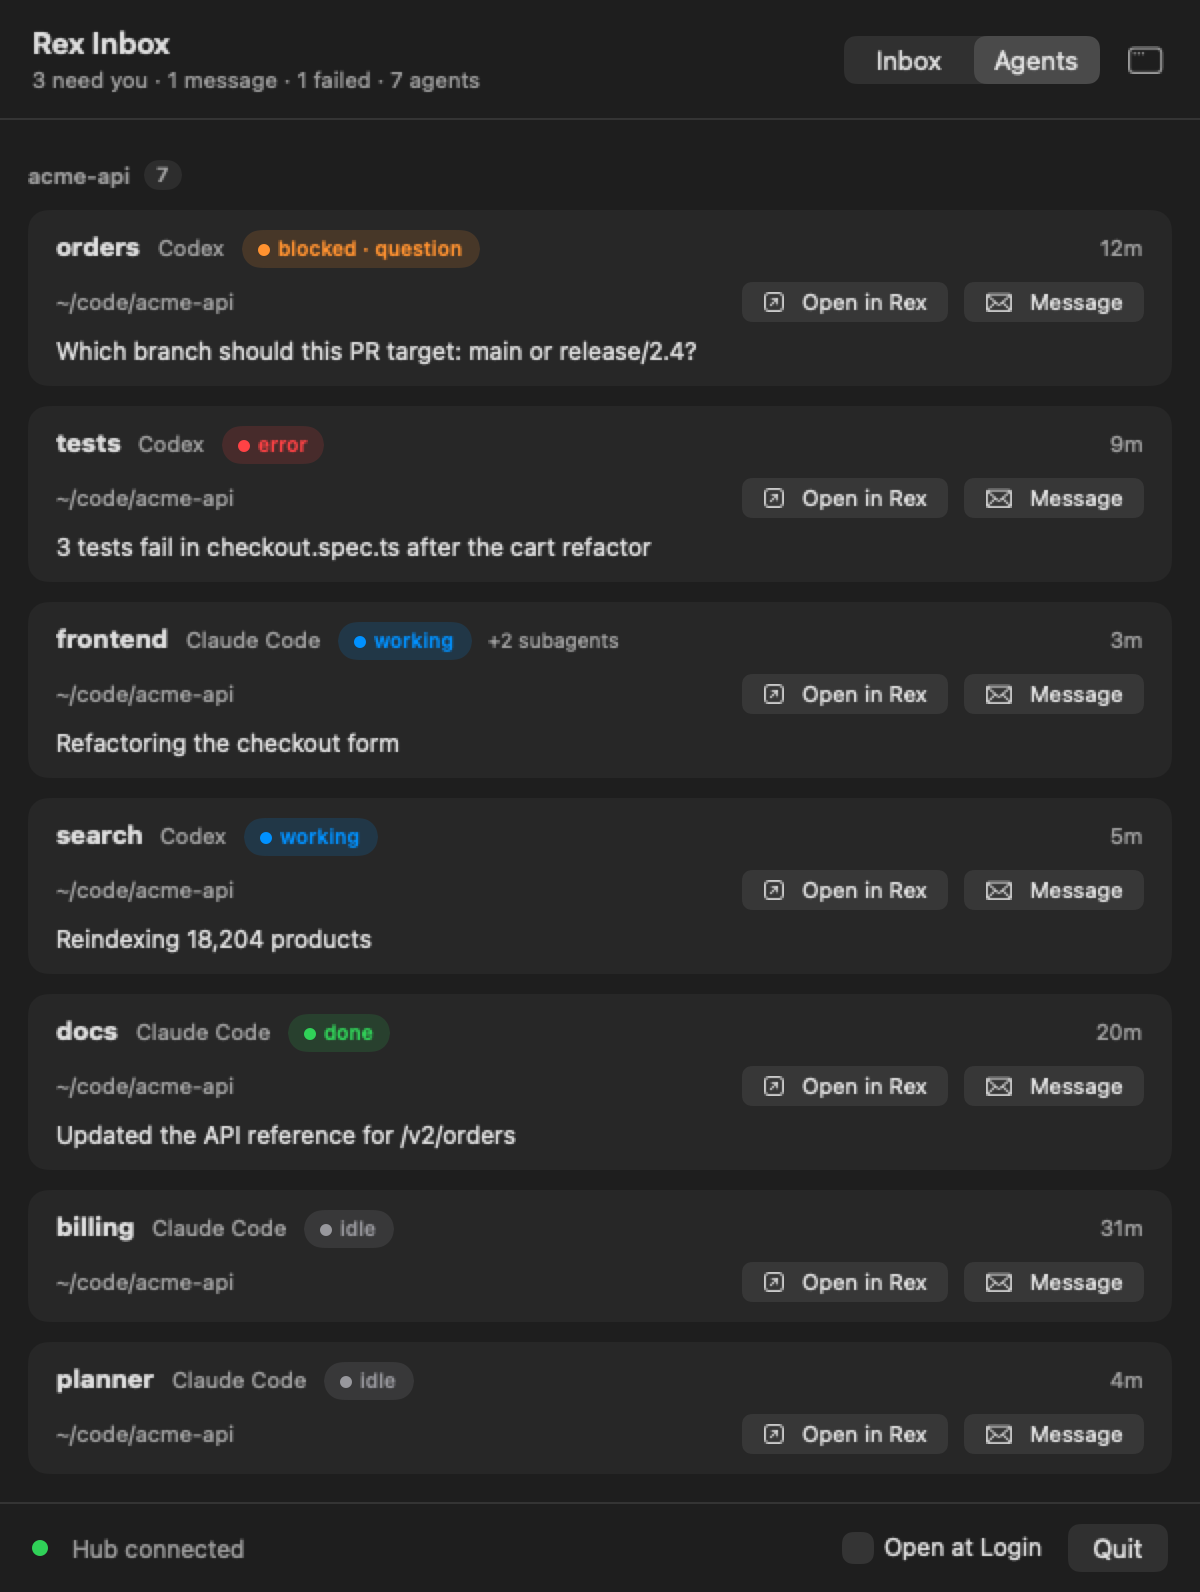
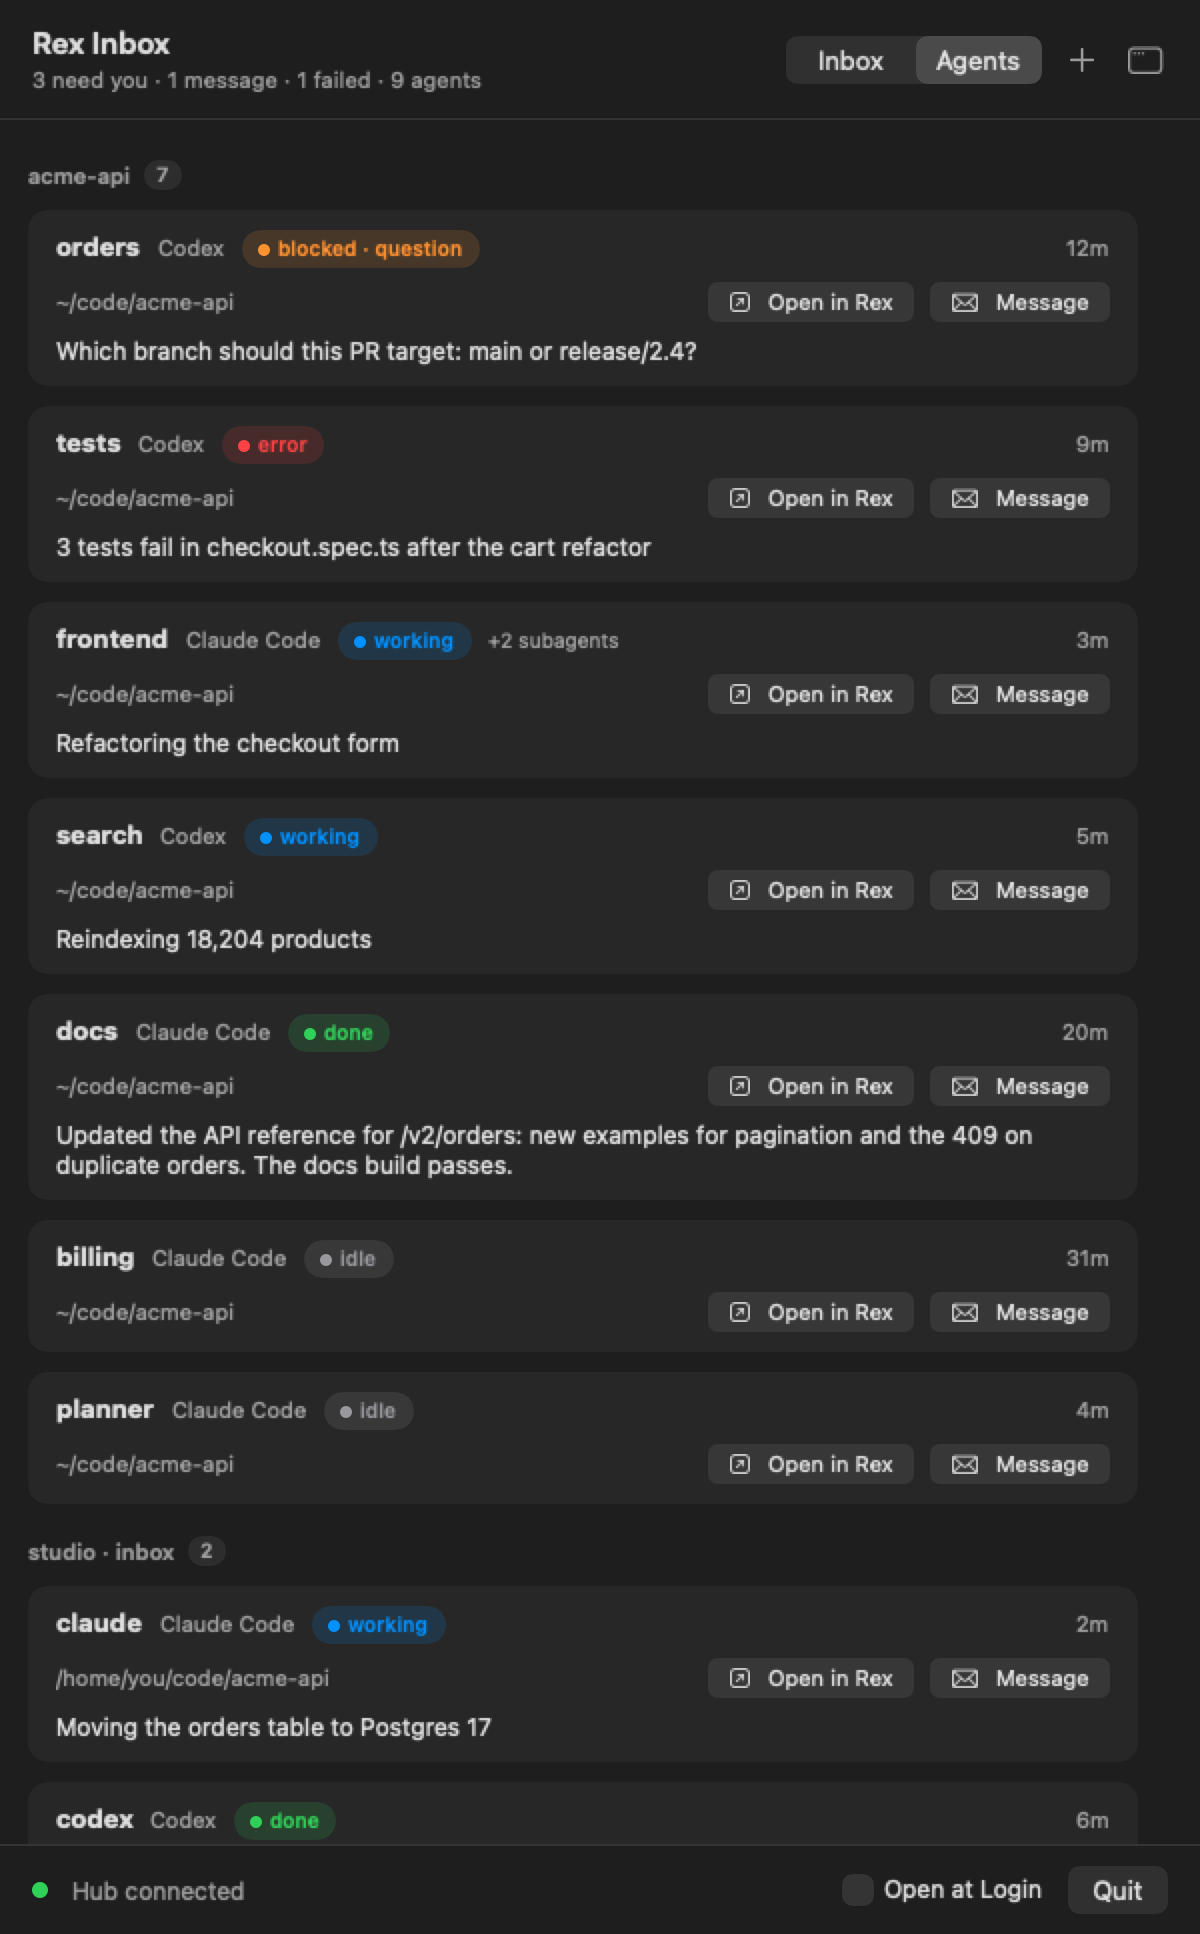
README and screenshots for starting agents and finished summaries
The made-up world the screenshots come from gains a second machine,
studio (fake-rex answers -S, rex hosts list, and each host's home), and
its finished agents say what they did through `rex-inbox hook send`, as
real Stop hooks do. New shots: the New Agent form on the Mac and on the
phone, filled in for a start on studio (RexInbox --snapshot --new-agent
takes --draft-host, --draft-folder and --draft-prompt; phone-shot.mjs
runs a script in the page first). The Agents shots show studio's agents
in their own group.

The README covers starting agents (with both forms), `hooks install` in
Install, and other machines' agents under Agents; DESIGN.md records how
summaries reach finished alerts.

diff --git a/mac/Sources/RexInbox/Snapshot.swift b/mac/Sources/RexInbox/Snapshot.swift
@@ -1,7 +1,8 @@
 import AppKit
 import SwiftUI
 
-/// `RexInbox --snapshot out.png [--tab agents] [--window | --new-agent] [--appearance light]`
+/// `RexInbox --snapshot out.png [--tab agents] [--window | --new-agent [--draft-host H]
+/// [--draft-folder F] [--draft-prompt P]] [--appearance light]`
 /// renders the panel (or the window, with --window, or the panel's New
 /// Agent form, with --new-agent), with the hub's live
 /// data, to a PNG at 2x and quits. It checks the layout without opening
@@ -20,7 +21,16 @@ enum Snapshot {
             await store.refresh()
             let asWindow = args.contains("--window")
             let newAgent = args.contains("--new-agent")
-            if newAgent { await store.loadHosts() }
+            if newAgent {
+                await store.loadHosts()
+                // A start half filled in, to show it.
+                func value(_ flag: String) -> String? {
+                    args.firstIndex(of: flag).flatMap { $0 + 1 < args.count ? args[$0 + 1] : nil }
+                }
+                if let h = value("--draft-host") { store.draft.host = h }
+                if let f = value("--draft-folder") { store.draft.folder = f }
+                if let p = value("--draft-prompt") { store.draft.prompt = p }
+            }
             let root: AnyView = newAgent
                 ? AnyView(PanelView(store: store, composing: true))
                 : asWindow

diff --git a/README.md b/README.md
@@ -8,7 +8,9 @@ Everything your Rex agents need from you, and messages between them.
 knows what each one is doing: Claude Code and Codex report `working`,
 `blocked`, `done` and `error` on their own (OSC 7501). rex-inbox turns that
 into one inbox, lets agents message each other and you, and lets you
-answer permission prompts without going to the pane.
+answer permission prompts without going to the pane. It also starts new
+agents, on this Mac or any machine in `rex hosts`, and says what each
+agent did when it finished.
 
 The idea comes from [Plannotator](https://github.com/backnotprop/plannotator)'s
 [Inbox](https://plannotator.ai/inbox), by [@backnotprop](https://github.com/backnotprop).
@@ -45,9 +47,13 @@ $ rex-inbox approve 17
 git clone https://github.com/captjt/rex-inbox ~/src/rex-inbox
 cd ~/src/rex-inbox
 cargo install --path .
-rex-inbox up          # the hub, as a LaunchAgent (logs: rex-inbox logs)
-mac/build.sh          # Rex Inbox.app, in ~/Applications
+rex-inbox up              # the hub, as a LaunchAgent (logs: rex-inbox logs)
+rex-inbox hooks install   # agents say what they did when they finish
+mac/build.sh              # Rex Inbox.app, in ~/Applications
 ```
+
+With agents on other machines too, load rex-inbox's Rex action (see
+[Agents on other machines](#agents-on-other-machines)).
 
 macOS only for now. The hub talks to Rex only through the `rex` CLI.
 Agents use it through the same CLI: `rex-inbox send`, `inbox`, `read`, and
@@ -58,7 +64,8 @@ Agents use it through the same CLI: `rex-inbox send`, `inbox`, `read`, and
 A tray in the menu bar turns orange with a count while something needs
 you. Its panel is a quick look; the window button opens a full window with
 a sidebar (Everything, Needs You, Messages, Failed, Finished, Agents). The
-app shows in the Dock while that window is open.
+app shows in the Dock while that window is open. The ＋ starts an agent
+(see [Starting agents](#starting-agents-on-any-machine)).
 
 <table>
   <tr>
@@ -71,7 +78,7 @@ app shows in the Dock while that window is open.
     <td valign="top">
       <picture>
         <source media="(prefers-color-scheme: dark)" srcset="docs/images/agents-dark.png">
-        <img src="docs/images/agents-light.png" width="400" alt="The Agents tab: each agent pane in a session, with its state, its folder, and what it's doing, and buttons to open it in Rex or message it">
+        <img src="docs/images/agents-light.png" width="400" alt="The Agents tab: each agent pane by session, this Mac's first and then another machine's (studio · inbox), with its state, its folder, and what it's doing or what it said when it finished, and buttons to open it in Rex or message it">
       </picture>
     </td>
   </tr>
@@ -81,13 +88,15 @@ app shows in the Dock while that window is open.
 
 - **Inbox:** approve or deny a prompt, reply to a message, open the pane in
   Rex, snooze, or mark done.
-- **Agents:** every agent pane by session; click one to open it, or
-  message it.
+- **Agents:** every agent pane by session, this Mac's first, then each
+  other machine's; click one to open it, or message it. A finished agent
+  shows what it said last.
 - **Notifications** carry the answer: Approve and Deny, Post and Dismiss
   for a review, or Reply.
 
-`RexInbox --snapshot out.png [--tab agents] [--window]` renders the panel
-(or the window) to a PNG without opening anything on screen.
+`RexInbox --snapshot out.png [--tab agents] [--window | --new-agent]`
+renders the panel (or the window, or the New Agent form) to a PNG without
+opening anything on screen.
 
 `scripts/demo.sh up` fills your inbox with a made-up project (a Rex session
 `acme-api` of stand-in agents, and two messages to you), to try the app
@@ -142,7 +151,29 @@ the app.
 ## Starting agents, on any machine
 
 The ＋ in the menu bar panel, New Agent in the window's toolbar, and New
-Agent on the phone's Agents tab all start an agent. So does the CLI:
+Agent on the phone's Agents tab all start an agent. On the Mac, the form
+takes the panel's place (a sheet over the window); on the phone, it's a
+sheet. Pick the machine and the agent, then the folder there and what to
+do, and press Start (⌘↩ on the Mac).
+
+<table>
+  <tr>
+    <td valign="top">
+      <picture>
+        <source media="(prefers-color-scheme: dark)" srcset="docs/images/new-agent-dark.png">
+        <img src="docs/images/new-agent-light.png" width="400" alt="New Agent in the menu bar panel: machine chips (This Mac, studio) with studio chosen, Claude Code or Codex, the folder ~/code/acme-api with the folders studio's agents are in below it, a prompt, the name and session, and Start Claude Code">
+      </picture>
+    </td>
+    <td valign="top">
+      <picture>
+        <source media="(prefers-color-scheme: dark)" srcset="docs/images/phone-new-agent-dark.png">
+        <img src="docs/images/phone-new-agent-light.png" width="260" alt="The same New Agent form on the phone, as a sheet over the Agents tab">
+      </picture>
+    </td>
+  </tr>
+</table>
+
+So does the CLI:
 
 ```
 $ rex-inbox start --on studio -C ~/code/api "Fix the flaky retry test"

diff --git a/DESIGN.md b/DESIGN.md
@@ -67,11 +67,20 @@ Each alert is keyed by `host / block / record id` and mirrors a live record:
 | --- | --- | --- |
 | `blocked` | **needs you** | `kind` = permission, question or auth; `msg` says what. |
 | `error` | **failed** | |
-| `done` | **finished** | Rex drops `done` once you go back to the pane and press a key, so these clear themselves. |
+| `done` | **finished** | Rex drops `done` once you go back to the pane and press a key, so these clear themselves. `msg` is what the agent said last, from its Stop hook (below). |
 | `idle`, `working`, removed, pane closed | alert resolves | Kept in history with `resolved_at`. |
 
 Child records (Claude Code subagents report one per task, with a `title`) roll
 up into their pane: a pane shows its most urgent record.
+
+Program status says that an agent finished, not what it did. Claude Code
+and Codex both run a Stop hook as a turn ends, with `last_assistant_message`
+on stdin. `rex-inbox hook stop` (installed by `rex-inbox hooks install`)
+sends it to the hub as `turn.done`, in the background, printing nothing.
+The hub keeps a one-paragraph form on the pane (`src/hooks.rs`) until the
+root record next turns `working`, and a finished alert takes it as `msg`.
+The hook can land before or after the `done` record; either way the alert
+ends up with it.
 
 ## Messages
 
@@ -201,6 +210,8 @@ Each step is usable on its own.
     followed host: Claude Code or Codex in a new tab of the host's `inbox`
     session, in a folder checked through that host's `list_dir`.
 9. Done: rex-reviewer's reviews as items, with its agents folded in (see "With rex-reviewer").
+11. Done: what a finished agent did, from its Stop hook (`src/hooks.rs`,
+    `rex-inbox hooks install`).
 
 Tested on 2026-11-05: two Haiku agents traded messages through the hub, a
 real Claude Code prompt was approved and another denied, and a prompt was
@@ -214,6 +225,9 @@ approved from the app.
   status. For an agent the inbox started, 8 quiet seconds raise a needs you
   item (kind `startup`), but the prompt must be answered in Rex. An agent
   started some other way shows only as `starting` under Agents.
+- Finished items don't notify; their summaries show in the inbox and under
+  Agents. Each machine needs `rex-inbox hooks install`, and Codex asks to
+  trust the hook once.
 - Agents on other hosts need the `rex-inbox` CLI installed there to send,
   reply or wait. Without it, a message tells them to answer in the pane.
 - Through Rex, `wait` asks again every 45 seconds, and `watch` isn't
